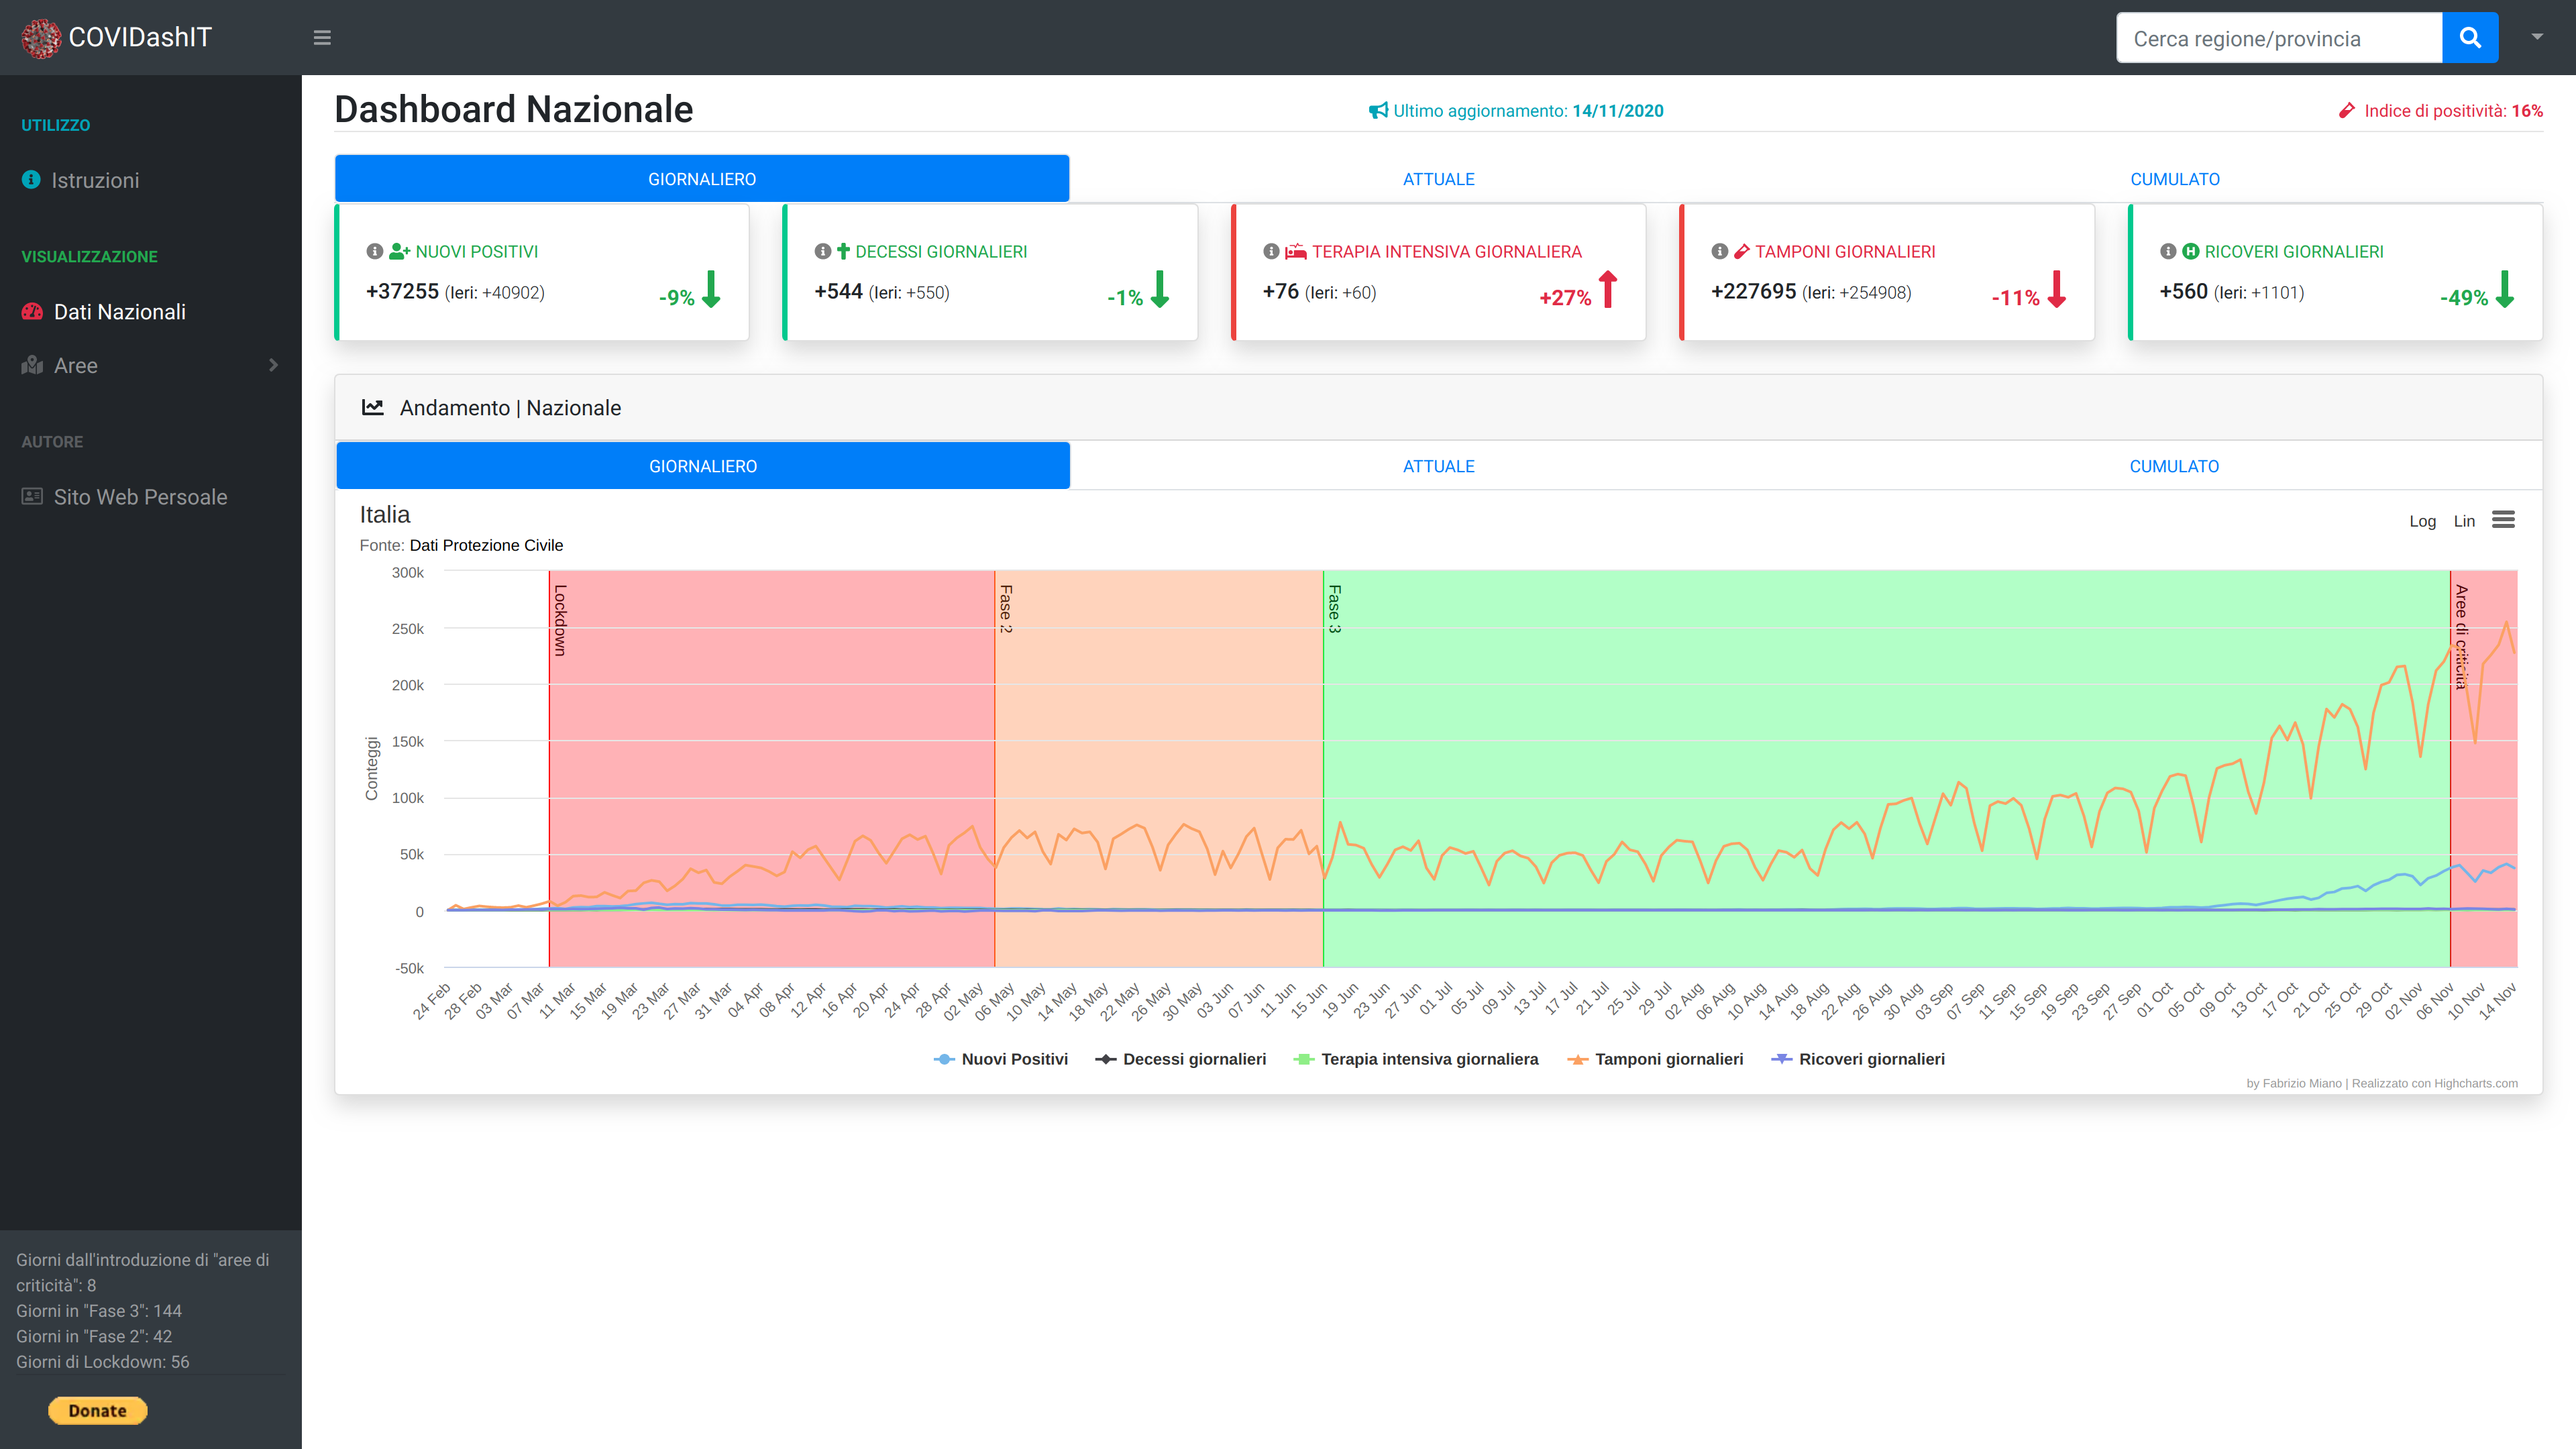
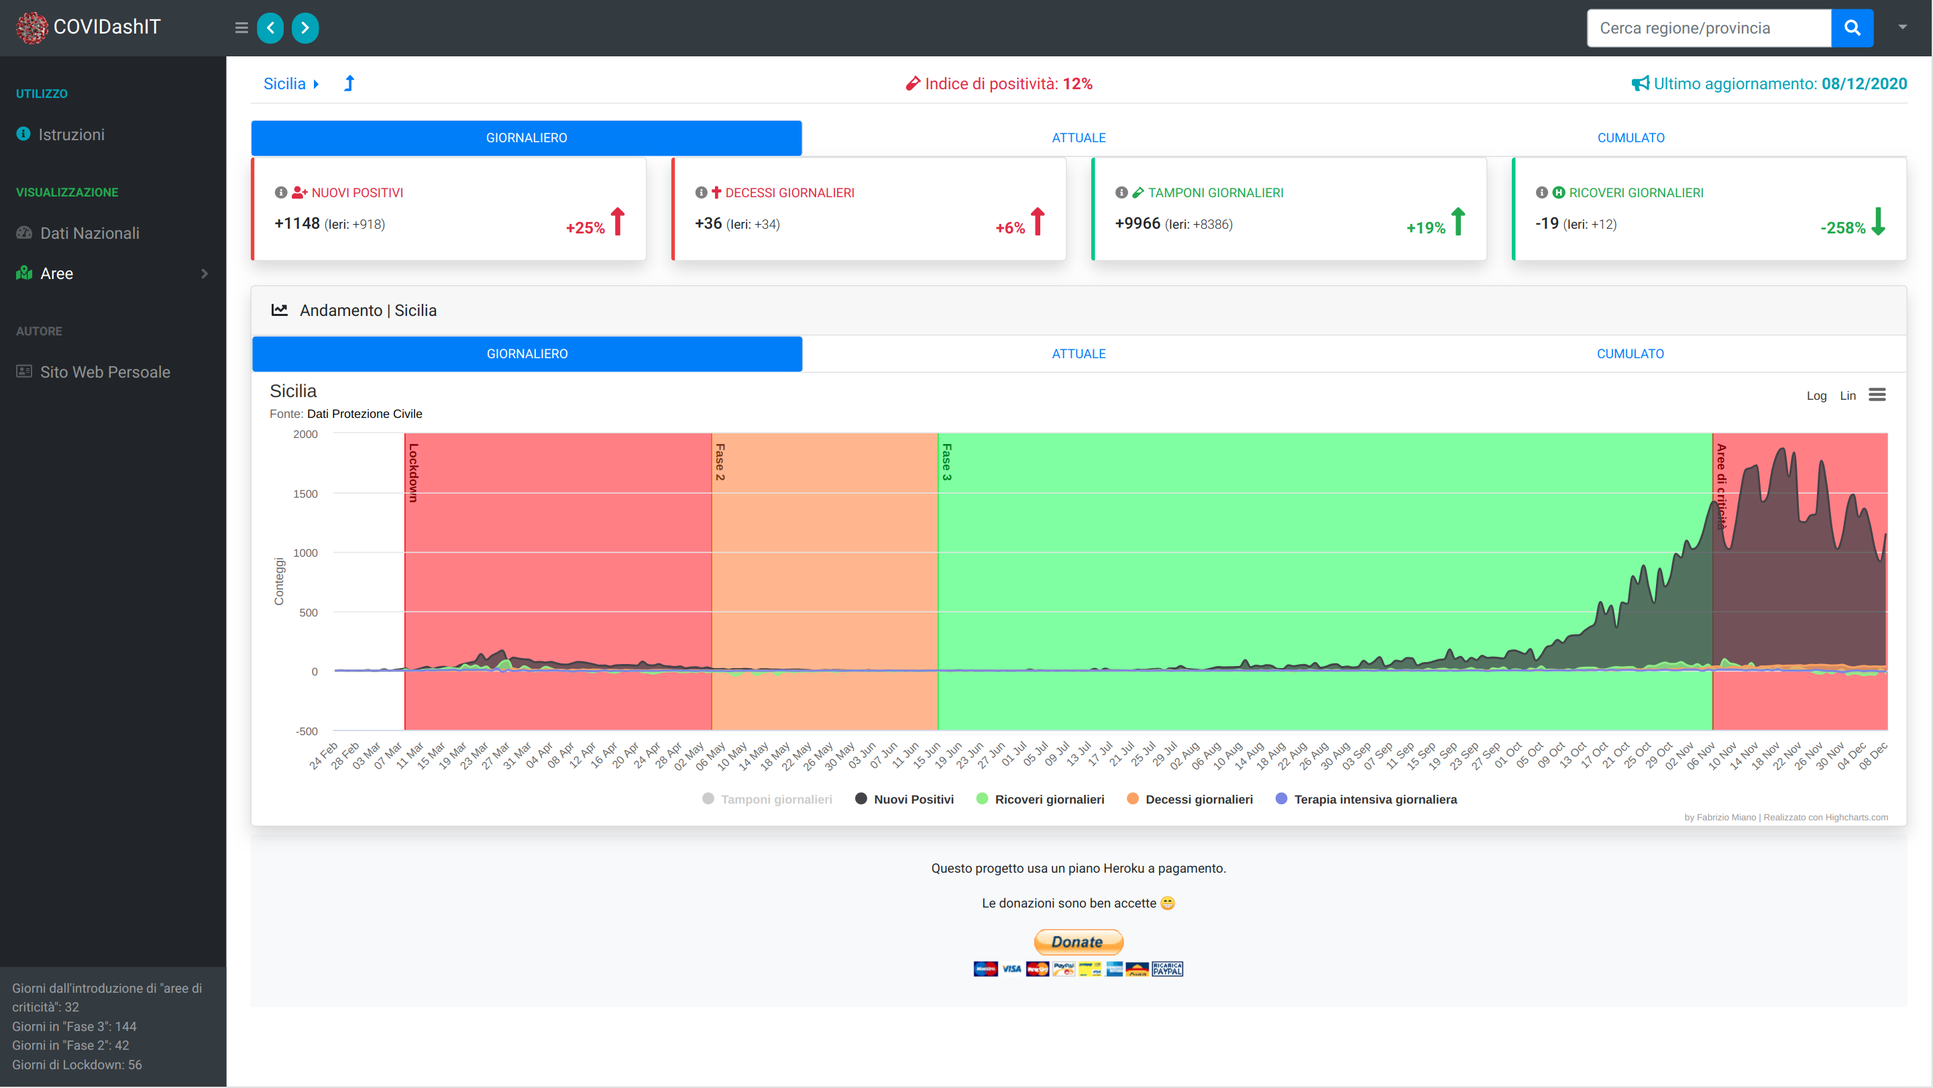
v2.9.0: BE: desc-sort series for highcharts integration, and add 'id' field in series objects; FE: Improve on cosmetics and visualization

diff --git a/app/templates/dashboard/charts.html b/app/templates/dashboard/charts.html
@@ -46,8 +46,9 @@
 
 <script>
     let seriesDaily = {{ series.daily|safe }};
+    let seriesCurrent = null;
     {% if area not in provinces %}
-    let seriesCurrent = {{ series.current|safe }};
+        seriesCurrent = {{ series.current|safe }};
     {% endif %}
     let seriesCum = {{ series.cum|safe }};
     let xAxis = {
@@ -58,7 +59,10 @@
                 width: 1,
                 value: 13,
                 label: {
-                    text: "{{ gettext("Lockdown") }}"
+                    text: "{{ gettext("Lockdown") }}",
+                    style: {
+                        fontWeight: 'bold'
+                    }
                 }
             },
             {
@@ -66,7 +70,10 @@
                 width: 1,
                 value: 70,
                 label: {
-                    text: "{{ gettext("Phase 2") }}"
+                    text: "{{ gettext("Phase 2") }}",
+                    style: {
+                        fontWeight: 'bold'
+                    }
                 }
             },
             {
@@ -74,7 +81,10 @@
                 width: 1,
                 value: 112,
                 label: {
-                    text: "{{ gettext("Phase 3") }}"
+                    text: "{{ gettext("Phase 3") }}",
+                    style: {
+                        fontWeight: 'bold'
+                    }
                 }
             },
             {
@@ -82,28 +92,31 @@
                 width: 1,
                 value: 256,
                 label: {
-                    text: "{{ gettext("Critical areas") }}"
+                    text: "{{ gettext("Critical areas") }}",
+                    style: {
+                        fontWeight: 'bold'
+                    }
                 }
             }
             ],
         plotBands: [
             {
-                color: 'rgba(255,0,0,.3)',
+                color: 'rgba(255,0,0,.5)',
                 from: 13,
                 to: 70
             },
             {
-                color: 'rgba(252,115,3,.3)',
+                color: 'rgba(252,115,3,.5)',
                 from: 70,
                 to: 112
             },
             {
-                color: 'rgba(0,255,0,.3)',
+                color: 'rgba(0,255,0,.5)',
                 from: 112,
                 to: 256
             },
             {
-                color: 'rgba(255,0,0,.3)',
+                color: 'rgba(255,0,0,.5)',
                 from: 256,
                 to: {{ series.dates|length }}
             }

diff --git a/app/static/js/charts.js b/app/static/js/charts.js
@@ -1,6 +1,6 @@
-let chartTrendOptions = {
+let chartCommon = {
     chart: {
-        type: 'line',
+        type: 'areaspline',
         zoomType: 'x'
     },
     title: title,
@@ -38,26 +38,34 @@ let chartTrendOptions = {
         }
     },
     subtitle: subtitle,
-    credits: credits,
-    plotOptions: {
-        series: {
-            visible: true
-        }
+    credits: credits
+}
+
+// daily chart
+let chartDailyTrend = Object.assign(
+    chartCommon,
+    {series: seriesDaily}
+    );
+for (let i = 0; i < seriesDaily.length ; i++) {
+    if (seriesDaily[i].id === "tamponi_g") {
+        seriesDaily[i].visible = false
     }
 }
+Highcharts.chart('chart-trend-daily', chartDailyTrend);
 
-
-let chartTrendDailyOptions = Object.assign({}, chartTrendOptions);
-chartTrendDailyOptions.series = seriesDaily;
-let chartDailyTrend = Highcharts.chart('chart-trend-daily', chartTrendDailyOptions);
-
-let chartTrendCumOptions = Object.assign({}, chartTrendOptions);
-chartTrendCumOptions.series = seriesCum;
-let chartCumTrend = Highcharts.chart('chart-trend-cum', chartTrendCumOptions);
-
-if (seriesCurrent !== undefined) {
-    let chartTrendCurrentOptions = Object.assign({}, chartTrendOptions);
-    chartTrendCurrentOptions.series = seriesCurrent;
-    let chartCurrentTrend = Highcharts.chart('chart-trend-current', chartTrendCurrentOptions);
+// current chart
+if (seriesCurrent !== null) {
+    let chartCurrentTrend = Object.assign(
+        chartCommon,
+        {series: seriesCurrent}
+        );
+    Highcharts.chart('chart-trend-current', chartCurrentTrend);
 
 }
+
+// cum chart
+let chartCumTrend = Object.assign(
+    chartCommon,
+    {yAxis: {type: 'logarithmic'}, series: seriesCum}
+    );
+Highcharts.chart('chart-trend-cum', chartCumTrend);

diff --git a/app/templates/base/navbar.html b/app/templates/base/navbar.html
@@ -1,6 +1,6 @@
 <!-- Navbar -->
 <nav class="sb-topnav navbar navbar-expand navbar-dark bg-dark">
-    <a class="navbar-brand" href="/"><img src="../../static/img/virussketch.png" width="30" height="30" alt=""> COVIDashIT</a>
+    <a class="navbar-brand" href="/"><img src="../../static/img/virussketch_32.png" width="32" height="32" alt=""> COVIDashIT</a>
     <button class="btn btn-link btn-sm order-1 order-lg-0" id="sidebarToggle"><i class="fas fa-bars"></i></button>
 
     {% if area %}

diff --git a/app/templates/dashboard.html b/app/templates/dashboard.html
@@ -90,7 +90,6 @@
                                    name="submit"
                                    title="PayPal - The safer, easier way to pay online!"
                                    alt="Donate with PayPal button" />
-                            <img alt="" border="0" src="https://www.paypal.com/en_IT/i/scr/pixel.gif" width="1" height="1" />
                         </form>
                     </div>
                 </footer>

diff --git a/app/data/etl.py b/app/data/etl.py
@@ -9,9 +9,9 @@ from app.data import (
     PROV_TREND_CARDS
 )
 from config import (
-    VARS, DAILY_POSITIVITY_INDEX, NEW_POSITIVE_KEY,
-    DAILY_SWABS_KEY, REGION_CODE, PROVINCE_CODE, TOTAL_CASES_KEY, REGION_KEY,
-    PROVINCE_KEY, REGIONS, PROVINCES, DATE_KEY, CHART_DATE_FMT, STATE_KEY
+    VARS, DAILY_POSITIVITY_INDEX, NEW_POSITIVE_KEY, DAILY_SWABS_KEY,
+    REGION_CODE, PROVINCE_CODE, TOTAL_CASES_KEY, REGION_KEY, PROVINCE_KEY,
+    REGIONS, PROVINCES, DATE_KEY, CHART_DATE_FMT, STATE_KEY
 )
 COLUMNS_TO_DROP = [STATE_KEY]
 
@@ -313,27 +313,30 @@ def build_series(df):
     :return: tuple
     """
     dates = df[DATE_KEY].apply(lambda x: x.strftime(CHART_DATE_FMT)).tolist()
-    series_daily = [
+    series_daily = sorted([
         {
+            "id": col,
             "name": VARS[col]["title"],
             "data": df[col].values.tolist()
         }
         for col in NON_CUM_DAILY_QUANTITIES
-    ]
-    series_cum = [
+    ], key=lambda x: max(x["data"]), reverse=True)
+    series_cum = sorted([
         {
+            "id": col,
             "name": VARS[col]["title"],
             "data": df[col].values.tolist()
         }
         for col in CUM_QUANTITIES
-    ]
-    series_current = [
+    ], key=lambda x: max(x["data"]), reverse=True)
+    series_current = sorted([
         {
+            "id": col,
             "name": VARS[col]["title"],
             "data": df[col].values.tolist()
         }
         for col in NON_CUM_QUANTITIES
-    ]
+    ], key=lambda x: max(x["data"]), reverse=True)
     series = (dates, series_daily, series_current, series_cum)
     return series
 
@@ -387,14 +390,16 @@ def build_provincial_series(df):
             lambda x: x.strftime(CHART_DATE_FMT)).tolist()
         series_daily = [
             {
-                "name": VARS["nuovi_positivi"]["title"],
-                "data": df_area["nuovi_positivi"].values.tolist()
+                "id": NEW_POSITIVE_KEY,
+                "name": VARS[NEW_POSITIVE_KEY]["title"],
+                "data": df_area[NEW_POSITIVE_KEY].values.tolist()
             }
         ]
         series_cum = [
             {
-                "name": VARS["totale_casi"]["title"],
-                "data": df_area["totale_casi"].values.tolist()
+                "id": TOTAL_CASES_KEY,
+                "name": VARS[TOTAL_CASES_KEY]["title"],
+                "data": df_area[TOTAL_CASES_KEY].values.tolist()
             }
         ]
         provincial_series.append({

diff --git a/README.md b/README.md
@@ -41,9 +41,10 @@ For the app to be operational, a mongoDB must be populated:
     * `PROVINCIAL_TRENDS_COLLECTION`
     * `PROVINCIAL_SERIES_COLLECTION`
     * `PROVINCIAL_BREAKDOWN_COLLECTION`
- - The API `/api/update/<collection_type>` can be called via POST requests to drop and recreate the
- `national`, `regional` and `provincial` collections, e.g.
- ```POST /api/update/national```
+ - The collections can be created/recovered with the APIs
+    - POST `/recovery/<coll>` (`national`, `regional`, `provincial`)
+    - POST `/recovery/<coll>/<type>` (`series`, `trends` for `coll=national` or `breakdown`, `series`, `trendws` for `coll=regional, provincial`)
+    
  
 #### Setup a local version
 

diff --git a/README_IT.md b/README_IT.md
@@ -41,8 +41,10 @@ Perché l'app funzioni è necessario popolare un database mongo:
     * `PROVINCIAL_TRENDS_COLLECTION`
     * `PROVINCIAL_SERIES_COLLECTION`
     * `PROVINCIAL_BREAKDOWN_COLLECTION`
- - Vanno fatte le POST a `/api/update/<collection_type>` che popoleranno le varie collezioni, 
- ad es. ```POST /api/update/national```
+ - le collezioni possono essere popolate tramite le APIs
+    - POST `/recovery/<coll>` (`national`, `regional`, `provincial`)
+    - POST `/recovery/<coll>/<type>` (`series`, `trends` for `coll=national` or `breakdown`, `series`, `trendws` for `coll=regional, provincial`)
+    
 
 #### Setup locale
 
